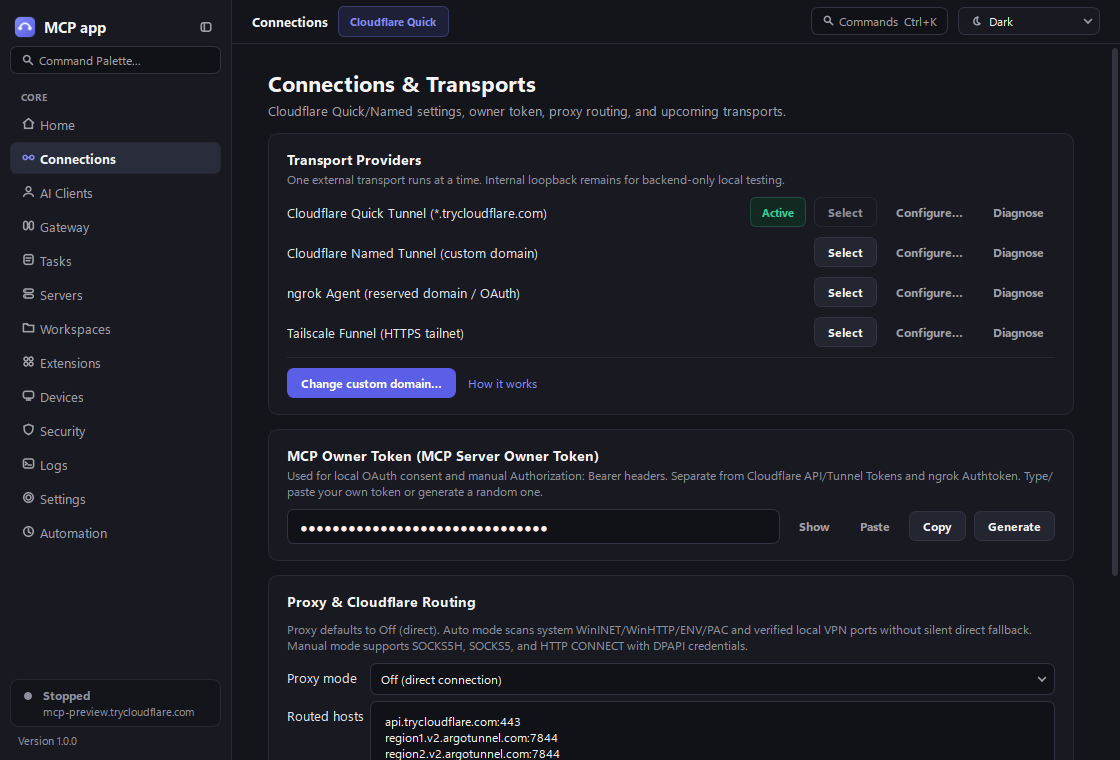
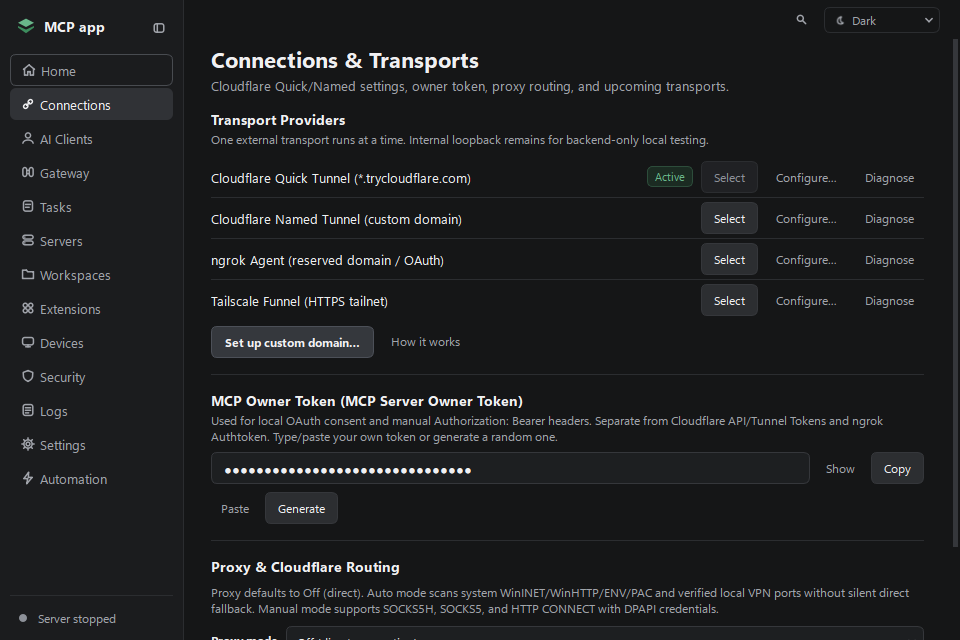
docs(release): update README, screenshots, changelog, and CI gate for v1.0.0

diff --git a/tools/capture_ui_screenshots.py b/tools/capture_ui_screenshots.py
@@ -35,7 +35,7 @@ def verify_layout_geometry(scale: str = "1.0") -> dict[str, str]:
         data_dir = Path(tmp)
         with patch("app.paths.user_data_dir", return_value=data_dir), patch(
             "app.core.service_manager.user_data_dir", return_value=data_dir
-        ), patch(
+        ), patch("app.core.domain_state.user_data_dir", return_value=data_dir), patch(
             "app.config.user_data_dir", return_value=data_dir
         ), patch("app.ui.theme.user_data_dir", return_value=data_dir, create=True), patch(
             "app.ui.main_window.default_store_path", return_value=data_dir / "oauth" / "state.sqlite3"
@@ -72,7 +72,7 @@ def capture_screenshots(out_dir: Path) -> list[Path]:
         data_dir = Path(tmp)
         with patch("app.paths.user_data_dir", return_value=data_dir), patch(
             "app.core.service_manager.user_data_dir", return_value=data_dir
-        ), patch(
+        ), patch("app.core.domain_state.user_data_dir", return_value=data_dir), patch(
             "app.config.user_data_dir", return_value=data_dir
         ), patch("app.ui.main_window.default_store_path", return_value=data_dir / "oauth" / "state.sqlite3"):
             i18n.set_language(LANG_RU)

diff --git a/tests/integration/test_minimalist_ui_redesign.py b/tests/integration/test_minimalist_ui_redesign.py
@@ -9,10 +9,12 @@ import unittest
 from pathlib import Path
 from unittest.mock import patch
 
-from mcp.shared.auth import OAuthClientInformationFull
-from PyQt6.QtCore import Qt
-from PyQt6.QtGui import QShortcut
-from PyQt6.QtWidgets import QApplication, QLineEdit
+os.environ.setdefault("QT_QPA_PLATFORM", "offscreen")
+
+from mcp.shared.auth import OAuthClientInformationFull  # noqa: E402
+from PyQt6.QtCore import Qt  # noqa: E402
+from PyQt6.QtGui import QShortcut  # noqa: E402
+from PyQt6.QtWidgets import QApplication, QLineEdit  # noqa: E402
 
 ROOT = Path(__file__).resolve().parents[2]
 if str(ROOT) not in sys.path:
@@ -34,7 +36,6 @@ from backend.oauth_store import OAuthStore  # noqa: E402
 class MinimalistUiRedesignTests(unittest.TestCase):
     @classmethod
     def setUpClass(cls) -> None:
-        os.environ.setdefault("QT_QPA_PLATFORM", "offscreen")
         cls.app = QApplication.instance() or QApplication([])
 
     def setUp(self) -> None:

diff --git a/README.md b/README.md
@@ -1,34 +1,28 @@
 # MCP app
 
-Десктопное приложение для Windows 10/11: одной кнопкой поднимает **MCP-сервер** (`backend/server.py`) и открывает к нему доступ через **Cloudflare Tunnel (Quick / Named)**, **ngrok** или **Tailscale Funnel** (внутренний loopback сохранён для headless/Admin/тестов). Работает из трея без навязчивых уведомлений и звуков, с централизованной системой постоянных журналов (`%APPDATA%\MCPApp\logs\`), сам перезапускает упавшие части и не оставляет процессов-сирот.
+Десктопное приложение для Windows 10/11: одной кнопкой поднимает **MCP-сервер** (`backend/server.py`) и открывает к нему доступ через **Cloudflare Tunnel (Quick / Named)**, **ngrok Agent** или **Tailscale Funnel** (внутренний loopback сохранён для headless, локального Admin API и тестов). Работает из трея без навязчивых уведомлений и звуков, с централизованной системой постоянных журналов (`%APPDATA%\MCPApp\logs\`), автоматически перезапускает упавшие процессы и не оставляет процессов-сирот.
 
 - **Временный адрес** `*.trycloudflare.com`: без домена и без аккаунта Cloudflare, работает сразу после установки.
-- **Свой домен**: постоянный адрес через именованный туннель (`~/.cloudflared/config.yml`).
-- **OAuth по умолчанию**: внешним клиентам нужен только MCP-адрес и вход по OAuth. Ручной токен — для подтверждения владельцем или заголовка Bearer.
+- **Свой домен (Cloudflare Named)**: постоянный адрес через API Token или готовый `Cloudflare Tunnel Token` (без изменения DNS и `config.yml`, либо вручную по инструкции).
+- **OAuth по умолчанию**: внешним клиентам нужен только MCP-адрес и вход по OAuth. Токен владельца (`MCP Owner Token`) — для подтверждения на странице согласия или заголовка `Authorization: Bearer ...`.
 
 ## Установка (для пользователя)
 
-1. Скачайте `MCPApp-Setup-<версия>.exe` (или `MCPApp-<версия>-portable.zip`).
-2. Установите. Права администратора не нужны, приложение ставится в `%LOCALAPPDATA%\Programs\MCP app`.
-3. Запустите **MCP app** → **Запустить**. На чистой машине сразу выбран режим «Временный адрес».
-4. На странице «Главная» скопируйте **только адрес** и добавьте его как MCP-сервер в OAuth-клиенте.
+1. Скачайте [`MCPApp-Setup-1.0.0.exe`](https://github.com/SolasFor/MCP-app/releases/latest) (или [`MCPApp-1.0.0-portable.zip`](https://github.com/SolasFor/MCP-app/releases/latest)).
+2. Установите приложение. Права администратора не требуются, установка выполняется в `%LOCALAPPDATA%\Programs\MCP app`.
+3. Запустите **MCP app** и на странице **«Главная»** нажмите **«Запустить»**. На чистой установке сразу выбран режим «Временный адрес».
+4. Скопируйте **только MCP-адрес** в блоке «Адрес подключения» и добавьте его в настройках MCP/OAuth вашего AI-клиента.
 
-Python и cloudflared ставить не нужно: оба внутри сборки.
+Python и `cloudflared` устанавливать отдельно не нужно — оба встроены в сборку.
 
-**SmartScreen.** Сборка не подписана сертификатом, поэтому при первом запуске Windows покажет «Windows защитила ваш компьютер». Нажмите «Подробнее» → «Выполнить в любом случае».
+**SmartScreen.** Сборка не подписана платным сертификатом издателя (Authenticode), поэтому при первом запуске Windows покажет предупреждение «Windows защитила ваш компьютер». Нажмите **«Подробнее» → «Выполнить в любом случае»**. Автоустановка обновлений (`StagedUpdater.auto_install_enabled`) отключена до появления доверенной подписи; для проверки целостности к релизу приложены `SHA256SUMS.txt` и `SBOM.cdx.json`.
 
-## Главная: сервер, Cloudflare, OAuth и 3 сценария доступа
+## Навигация, туннели и 3 сценария доступа
 
-На одной странице **«Главная»** находятся запуск сервера, адрес Cloudflare,
-настройка домена, OAuth-клиенты и диагностика. Отдельной вкладки
-«Подключение» больше нет.
-
-После OAuth-авторизации клиент получает возможности **своего сценария
-доступа**. На «Главной» задаётся режим по умолчанию, а в
-**«Управление OAuth-клиентами…» → «Права»** для каждого клиента доступен
-выпадающий список «Безопасный», «Белый список», «Полный доступ».
-Кнопка «Разрешённые команды и хосты…» из списка клиентов убрана:
-белый список редактируется только на «Главной».
+- **Главная**: статус сервера и локальный порт, статус активного туннеля, кнопка **«Запустить / Остановить»**, компактное поле копирования адреса (`CopyField`), список состояний компонентов (MCP-сервер, активный транспорт, OAuth), ссылка **«Диагностика подключения ›»** и условная кнопка **«Аварийная остановка»** (при активных сервисах).
+- **Подключения**: переключение 4 UI-провайдеров (**Cloudflare Quick**, **Cloudflare Named**, **ngrok Agent**, **Tailscale Funnel**) с сохранением настроек между переключениями, мастер домена, управление **MCP Owner Token** (ввод, вставка, генерация, скрытие) и настройка прокси (`none` по умолчанию / `auto` / `SOCKS5` / `HTTP CONNECT`).
+- **Безопасность**: выбор **сценария доступа по умолчанию** (`Безопасный`, `Белый список`, `Полный доступ`), редактор белого списка команд Windows и SSH, переключатели **Computer Use** (`ToggleSwitch` с мгновенным автосохранением без перезапуска) и защита секретов Windows DPAPI.
+- **AI-клиенты**: список зарегистрированных OAuth-клиентов, индивидуальный профиль доступа для каждого клиента в колонке **«Права»** и мгновенный отзыв токенов.
 
 | Режим | Команды Windows | SSH | Подтверждение каждого вызова |
 | --- | --- | --- | --- |
@@ -36,34 +30,19 @@ Python и cloudflared ставить не нужно: оба внутри сбо
 | **Белый список** *(по умолчанию)* | Только точные разрешённые команды | Только точные хосты и команды | **Нет** |
 | **Полный доступ** | Произвольные команды через Windows `cmd.exe` | Произвольные команды на SSH-хостах с проверенным ключом | **Нет** |
 
-В любом режиме у OAuth-клиента есть диагностический `server_info` (возвращает активные `profile`, `computer_use` и `server_mode` без раскрытия секретов).
-По умолчанию белый список Windows содержит `whoami`, `ipconfig`,
-`systeminfo`, `pwd`, `ls`, `dir` и `echo`; редактируется
-на «Главной» даже до запуска сервера. Для SSH списки хостов и команд изначально пусты.
-Встроенные `dir`/`ls`/`pwd`/`echo` в режиме белого списка обрабатываются
-**без запуска shell**. Остальные разрешённые программы запускаются напрямую.
-Это список точных команд, а не разрешение на все аргументы программы.
+В любом режиме у OAuth-клиента доступен диагностический `server_info` (возвращает активные `profile`, `computer_use` и `server_mode` без раскрытия секретов).
+По умолчанию белый список Windows содержит `ls`, `pwd`, `dir`, `echo`, `whoami`, `ipconfig` и `systeminfo`; списки редактируются на вкладках **«Безопасность»** и **«AI-клиенты»** даже до запуска сервера. Для SSH списки хостов и команд изначально пусты.
+Встроенные `dir`/`ls`/`pwd`/`echo` в режиме белого списка обрабатываются **без запуска shell**. Остальные разрешённые программы запускаются напрямую. Это список точных команд, а не разрешение на любые аргументы программы.
 
-**Полный доступ опасен:** AI-клиент может выполнять произвольные команды
-с правами запущенного Windows-пользователя и учётной записи SSH. Включается
-только вручную после предупреждения. Нет Windows sandbox — доверяйте
-только выбранным OAuth-клиентам. Режим может быть индивидуальным для каждого OAuth-клиента. Клиенты без
-индивидуального выбора наследуют режим по умолчанию с «Главной».
-Смена прав применяется сразу, включая уже подключённые токены.
+**Полный доступ опасен:** AI-клиент может выполнять произвольные команды с правами запущенного Windows-пользователя и учётной записи SSH. Включается только вручную после предупреждения. Windows sandbox здесь нет — доверяйте только выбранным OAuth-клиентам. Клиенты без индивидуального выбора наследуют сценарий по умолчанию со вкладки **«Безопасность»**. Смена прав применяется сразу, включая уже выданные токены.
 
-**Токен в ссылке `?token=...` не нужен и отключён**, включая обновлённые
-настройки прежних версий. Для MCP-клиента, поддерживающего OAuth, копируйте
-только `https://...trycloudflare.com/mcp`. Секрет владельца используется
-на странице подтверждения OAuth; для ручных клиентов без OAuth допустим
-заголовок `Authorization: Bearer ...`. Никогда не публикуйте этот токен.
+**Токен в ссылке `?token=...` не нужен и отключён**, включая обновлённые настройки прежних версий. Для MCP-клиента с поддержкой OAuth копируйте только `https://.../mcp`. Секрет владельца используется на локальной странице подтверждения OAuth; для ручных клиентов без OAuth допустим заголовок `Authorization: Bearer ...`. Никогда не публикуйте этот токен.
 
 Изменения сценария и прав **Computer Use** вступают в силу без перезапуска MCP-сервера (сервер уведомляет сессии через `notifications/tools/list_changed`, хотя некоторым AI-клиентам нужно обновить кэш инструментов).
 При смене токена владельца перезапускается только MCP-сервер (туннель сохраняется), старые OAuth-токены отзываются, а DCR-регистрация сохраняется для повторного подключения.
-На новом адресе Quick Tunnel клиенты переавторизуются заново с наследованием выбранного сценария по умолчанию (пока не назначен индивидуальный).
+На новом адресе Quick Tunnel клиенты переавторизуются заново с наследованием выбранного сценария по умолчанию.
 
-Поддержка на «Главной» также включает кнопку **«Аварийная остановка»** (немедленная блокировка новых вызовов OAuth и остановка контролируемых сервисов), сохранение **защищённого отчёта диагностики** без токенов и экспорт состояния без утечек.
-
-Подробнее: [модель угроз v1.0.0](docs/threat-model-v1.md),
+Подробнее: [дизайн-система DESIGN.md](DESIGN.md), [модель угроз v1.0.0](docs/threat-model-v1.md),
 [матрица совместимости](docs/compatibility-matrix.md),
 [руководство по обновлению с v0.8.5](docs/upgrade-guide.md),
 [справочник инструментов](docs/tool-reference.md),
@@ -81,7 +60,7 @@ Python и cloudflared ставить не нужно: оба внутри сбо
 [свой домен Cloudflare Named](docs/custom-domain.md),
 [система прокси](docs/proxy.md),
 [постоянное логирование и диагностический ZIP](docs/logging.md),
-[дизайн-система UI v0.9.0](docs/ui-design-system.md),
+[архитектура UI-темы v0.9.0](docs/ui-design-system.md),
 [сценарии Windows/SSH](docs/oauth-fixed-windows-ssh.md),
 [стабильность и безопасность v0.8.6](docs/stability-security.md),
 [OAuth через Cloudflare](docs/oauth-quick-tunnel.md),
@@ -91,8 +70,10 @@ Python и cloudflared ставить не нужно: оба внутри сбо
 
 ## Интерфейс (`v1.0.0`)
 
-- Стиль **Linear + Docker Desktop**: сворачиваемая боковая панель (`Ctrl+B`), палитра команд (`Ctrl+K`), фильтруемый журнал с экспортом и редактированием секретов, 13 активных разделов (**Главная**, **Подключения**, **AI-клиенты**, **Gateway**, **Задачи**, **Серверы**, **Workspaces**, **Расширения**, **Устройства**, **Безопасность**, **Журналы**, **Настройки**, **Автоматизация**).
-- **Dark / Light / System** темы и живое переключение языка **RU / EN** без перезапуска с сохранением геометрии окна и поддержкой HiDPI (`100–200%`).
+- **Minimalist Compact Desktop UI ([DESIGN.md](DESIGN.md))**: сдержанная графитовая эстетика **Linear / Raycast / Docker Desktop** (`#151617` в Dark и `#F7F8F9` в Light), зелёный акцент строго для состояния и запуска сервера, плоские секции с `1 px` разделителями вместо лишних карточек и адаптивные панели действий (`FlowLayout`).
+- **Компактная геометрия**: окно по умолчанию `960×640` (минимум `800×540`), сворачиваемая боковая панель `184 px` / `52 px` (`Ctrl+B`), палитра команд (`Ctrl+K`), быстрая навигация (`Ctrl+1..9`), только функциональный переход `ToggleSwitch` (`150 ms`, отключается при выключенных анимациях Windows), проверка HiDPI `100–200%` (включая `175%`).
+- **13 активных разделов**: **Главная**, **Подключения**, **AI-клиенты**, **Gateway**, **Задачи**, **Серверы**, **Workspaces**, **Расширения**, **Устройства**, **Безопасность**, **Журналы**, **Настройки**, **Автоматизация**.
+- **Dark / Light / System** темы и живое переключение языка **RU / EN** без перезапуска с сохранением геометрии окна; бесшумные диалоги `SilentDialog` / `SilentMessageBox` и wheel-безопасный `SafeComboBox`.
 - Headless-запуск сервера без GUI: `python main.py --headless` / `MCPApp.exe --headless`.
 
 ## FAQ и известные ограничения (`v1.0.0`)
@@ -111,6 +92,8 @@ Python и cloudflared ставить не нужно: оба внутри сбо
 |---|---|
 | Настройки | `%APPDATA%\MCPApp\settings.json` |
 | Токен (доступ только у вашего пользователя) | `%APPDATA%\MCPApp\token.json` |
+| Клиенты и права OAuth (зашифровано DPAPI) | `%APPDATA%\MCPApp\oauth\state.sqlite3` |
+| Постоянные журналы и архивы компонентов | `%APPDATA%\MCPApp\logs\` |
 | Рабочая папка и журнал сервера | `%APPDATA%\MCPApp\server\mcp_audit.log` |
 | Журнал выполнений OAuth Windows/SSH (JSONL, с ротацией, без открытого текста команд) | `%APPDATA%\MCPApp\server\mcp_execution_audit.jsonl` |
 | Отчёт о сбое | `%APPDATA%\MCPApp\crash.log` |
@@ -151,10 +134,11 @@ powershell -ExecutionPolicy Bypass -File packaging\build.ps1
 ## Структура
 
 ```
-main.py                 точка входа: GUI / --backend / --selftest
+main.py                 точка входа: GUI / --backend / --headless / --selftest
+DESIGN.md               спецификация дизайн-системы и дизайн-токенов
 app/gui.py              QApplication, трей, один экземпляр, перенос данных
-app/core/               ServiceManager, процессы, health-check, токен, автозапуск
-app/ui/                 дизайн-система Linear + Docker, Dark/Light/System, RU/EN, компоненты и страницы
-backend/server.py       MCP-сервер (uvicorn + MCP SDK)
+app/core/               ServiceManager, процессы, health-check, токен, прокси, логирование
+app/ui/                 Minimalist Graphite дизайн-система, Dark/Light/System, RU/EN, 13 страниц и диалоги
+backend/server.py       MCP-сервер (uvicorn + MCP SDK), OAuth, Gateway, Tasks, Extensions, Remote, Automation
 packaging/              PyInstaller spec, build.ps1, installer.iss, CI
 ```

diff --git a/PROGRESS.md b/PROGRESS.md
@@ -20,10 +20,14 @@
 Статусы: TODO / IN_PROGRESS / BLOCKED / VERIFIED / MERGED / RELEASED. Отдельные проверки: PASS / FAIL / NOT_RUN / BLOCKED / N/A. Не менять TODO на VERIFIED без доказательств приёмки.
 
 ## Последняя рабочая сессия
-- Дата, ветка, основа: 2026-11-26, ветка `fix/v1.0.0-acceptance-fixes` (продолжение PR #32 поверх `release/v1.0.0`).
-- Статус Этапа 12 (`v1.0.0 — Stable Release` + Wave 1 / Wave 2 / Wave 3 UI-исправления): все требования реализованы и проверены локально: статические проверки (`compileall`, `ruff`, `mypy` Windows + `--platform linux`), `check_licenses.py` (`38/38`), `tests/unit` (178/178), `tests/integration` (67/67), реальные браузерные E2E-тесты Playwright `tests/e2e/test_oauth_browsers_playwright.py` (Chromium, Chrome, Edge, Firefox — `OK`), оптимизация `_internal`, Windows EXE `--selftest`, проверка DPI `1.0–2.0` и визуальная проверка скриншотов в Light/Dark темах.
-- Окружение: Windows 11 Pro 25H2 (x86_64), Python 3.13.15 (`.venv`), Playwright `1.65.2` (только в dev `.venv`), Chrome / Edge / Chromium / Firefox, `cloudflared 2026.11.2`, `tailscale 1.104.2`, `gh` авторизован (`SolasFor`), `iscc` используется в GitHub Actions `windows-latest`.
-- Следующее действие: проверка CI-запусков GitHub Actions после финального пуша и согласование владельцем merge PR #32 / #20–#31 в `main`.
+- Дата, ветка, основа: 2026-11-26, ветка `feat/minimalist-compact-ui-redesign` (поверх `fix/v1.0.0-acceptance-fixes` / `release/v1.0.0`), подготовка финального релиза `v1.0.0` по одобрению владельца.
+- **Minimalist Compact UI Redesign & `v1.0.0` Release Prep**:
+  - Выполнена полная переработка интерфейса в стиле Linear/Raycast/Docker Desktop (`DESIGN.md`, `app/ui/**`), удалены все декоративные анимации (оставлен лишь `150 ms OutCubic` `ToggleSwitch` при включённых анимациях ОС), добавлены `FlowLayout`-панели и `tests/integration/test_minimalist_ui_redesign.py` (`break-ui`, 6 размеров окна, `1.0–2.0` DPI).
+  - Обновлены `README.md`, `CHANGELOG.md`, `docs/releases/v1.0.0.md`, `docs/screenshots/*.png`, изоляция `domain_state` в `tools/capture_ui_screenshots.py` и headless Qt env в `.github/workflows/build.yml`.
+- Ранее (`fix/v1.0.0-acceptance-fixes`, PR #32):
+  - Реализованы и проверены Wave 1 / Wave 2 / Wave 3 исправления (`compileall`, `ruff`, `mypy` Windows + Linux, `check_licenses.py`, `pip_audit`, `tests/unit`, `tests/integration`, Playwright E2E, EXE `--selftest`, `1.0–2.0` DPI).
+- Окружение: Windows 11 Pro 25H2 (x86_64), Python 3.13.15 (`.venv`), `gh` авторизован (`SolasFor`), `iscc` / Inno Setup 6 выполняется на `windows-latest` в GitHub Actions.
+- Следующее действие: зелёный CI на PR в `main`, merge в `main` и публикация тега/релиза `v1.0.0` через `.github/workflows/build.yml`.
 
 ## Release Acceptance Wave 3 — дополнительные исправления UI (`fix/v1.0.0-acceptance-fixes`, `VERIFIED` локально)
 1. **Вкладка «Безопасность» — Computer Use (`security_page.py`, `toggle_switch.py`, `backend/desktop/{models,manager}.py`)**:

diff --git a/docs/releases/v1.0.0.md b/docs/releases/v1.0.0.md
@@ -16,18 +16,17 @@
   - **Extensions**: Out-of-process JSON-RPC SDK, Ed25519/SHA-256 packaging, 4 official extensions.
   - **Remote Management**: Strict `RejectPolicy` `known_hosts`, SSH/SFTP with canonical roots & quotas.
   - **Automation & Monitoring**: TZ/DST scheduler, metrics, loopback-only Admin REST API, live-warned MCP Playground, non-secret backups, staged Ed25519 updater, `--headless` backend mode.
-- **Linear + Docker Desktop UI**: Dark/Light/System themes (top-right `SafeComboBox` synced with Settings, cached QSS/PNG/palette switching in <200ms), silent custom dialogs/popups (`SilentDialog`, `SilentMessageBox`, `SilentNotificationPopup`), wheel-safe `SafeComboBox`, live RU/EN i18n, Command Palette (`Ctrl+K`), HiDPI.
+- **Minimalist Compact Desktop UI (`DESIGN.md`, `app/ui/**`)**: Neutral graphite Light/Dark/System themes (`#151617` / `#F7F8F9`, emerald reserved for primary server Start/Stop and running status), flat divider-based sections, wrapping `FlowLayout` toolbars for `800×540`..`1440×900`, `960×640` compact default window, zero decorative animations (only `150 ms` `ToggleSwitch` slide), silent custom dialogs/popups (`SilentDialog`, `SilentMessageBox`, `SilentNotificationPopup`), wheel-safe `SafeComboBox`, live RU/EN i18n, Command Palette (`Ctrl+K`), verified across `1.0–2.0` HiDPI (`175%` included).
 
 ## Release Artifacts
 
-- `MCPApp-Setup-1.0.0.exe` (built in GitHub Actions `windows-package` with Inno Setup 6)
+- `MCPApp-Setup-1.0.0.exe` (built in GitHub Actions `Build` workflow with Inno Setup 6)
 - `MCPApp-1.0.0-portable.zip`
 - `SBOM.cdx.json` (38 verified dependencies)
 - `SHA256SUMS.txt`
 
-## Known Limitations & Honest Release Blockers
+## Known Limitations & Honest Notes
 
-1. **Unsigned Windows Binaries (Authenticode Blocker)**: No owner Authenticode `.pfx` certificate is configured locally or in CI. Windows SmartScreen warnings apply on first launch, and `StagedUpdater.auto_install_enabled` remains **`False`** by design.
+1. **Unsigned Windows Binaries (Authenticode)**: No owner Authenticode `.pfx` certificate is configured locally or in CI. Windows SmartScreen warnings apply on first launch, and `StagedUpdater.auto_install_enabled` remains **`False`** by design.
 2. **72-Hour Continuous Soak Test (`NOT_RUN`)**: Automated stress tests cover bounded 21+ MiB output floods, concurrent clients, mid-flight OAuth revocation, and fail-closed broken config recovery; a multi-day continuous 72-hour soak run has not been executed.
-3. **External Live Provider / Client Matrix (`BLOCKED`)**: `local_only`, `cloudflared --selftest`, `LocalSSHServer`, `stdio`/`Streamable HTTP`/`SSE` upstreams, and out-of-process extensions were tested live locally. Live external roundtrips requiring owner accounts/licenses (Cloudflare Named domain, ngrok, Tailscale Funnel ACL, ChatGPT/Claude/Gemini/Notion connectors, `SLDWORKS.exe` COM) remain blocked awaiting owner credentials.
-4. **Repository Merge & Public Release Gate**: Per `AGENTS.md`, stacked PRs #20–#31 await explicit owner approval before merging into `main` and publishing the official GitHub Release `v1.0.0`.
+3. **External Live Provider / Client Matrix (`NOT_RUN` without owner accounts)**: `local_only`, `cloudflared --selftest`, `LocalSSHServer`, `stdio`/`Streamable HTTP`/`SSE` upstreams, out-of-process extensions, and Playwright browser OAuth flows were verified locally. External third-party accounts/licenses (Cloudflare Named domain, ngrok, Tailscale Funnel ACL, ChatGPT/Claude/Gemini/Notion connectors, `SLDWORKS.exe` COM) require owner credentials at runtime.

diff --git a/CHANGELOG.md b/CHANGELOG.md
@@ -1,6 +1,10 @@
 # Changelog
 
-## [1.0.0] - 2026-11-26 (Stage 12: Stable Release Prep, Wave 1, Wave 2 & Wave 3 UI Polish)
+## [1.0.0] - 2026-11-26 (Stage 12: Stable Release, Acceptance Fixes & Minimalist UI Redesign)
+- **Minimalist Compact Desktop UI Redesign (`DESIGN.md`, `app/ui/**`)**:
+  - Redesigned the full desktop interface in a compact Linear/Raycast/Docker Desktop graphite aesthetic (`#151617` dark / `#F7F8F9` light, `960×640` default / `800×540` min, `184 px` / `52 px` sidebar), reserving green strictly for primary server Start/Stop controls and live running indicators while switching secondary actions to neutral graphite.
+  - Replaced nested and parameter-level cards with flat `Section` / `SettingRow` / `Divider` layouts, wrapping `FlowLayout` toolbars across management pages, single-bar `CopyField`, and unified `SilentDialog` styling; removed all decorative animations (`SpotlightFrame`, `ShinyLabel`, `SparkButton`, `reveal`, `StatusDot` pulse halo), preserving only the OS-animation-aware `150 ms OutCubic` `ToggleSwitch` transition.
+  - Documented tokens, typography, spacing, and non-regression UI rules in `DESIGN.md`, refreshed `docs/screenshots/`, expanded `tools/capture_ui_screenshots.py` for `1.0–2.0` DPI (`175%` included), and added `tests/integration/test_minimalist_ui_redesign.py` (`break-ui`, responsive sizes, shortcuts, accessibility, and animation guard).
 - **Additional UI Fixes (Wave 3 on `fix/v1.0.0-acceptance-fixes`)**:
   - **Security — Computer Use (`app/ui/pages/security_page.py`, `app/ui/components/toggle_switch.py`, `backend/desktop/{models,manager}.py`)**: Removed «Остановить Computer Use» (`Stop Computer Use`) button and its empty layout row while preserving the internal emergency stop (`DesktopPolicyStore.set_emergency_stop`, `ServiceManager.emergency_stop`, conditional `Clear Emergency Stop`). Disabling the master Computer Use `ToggleSwitch` now greys out and locks all dependent toggles (with `allow_secret_typing` additionally requiring `allow_input_control`) while preserving their stored values, immediately disables all Computer Use MCP tools via `ToolRegistry` / `DesktopManager`, and auto-saves silently across restarts. Moved «Сценарий доступа по умолчанию» (`SafeComboBox`) into `SecurityPage` («Политика выполнения команд»).
   - **Logs (`app/ui/pages/logs_page.py`, `app/ui/components/log_viewer.py`)**: Removed the «Экспорт диагностики…» (`Export Diagnostics…`) button from the Logs toolbar and removed the explanatory subtitle `logs.lead` (RU/EN) along with blank spacing, replacing the button with plain redacted text log export (`Экспорт…` / `Export…`) while preserving all log disk persistence, filtering, search, tail paging, copy, clear, open-folder, auto-scroll, and the internal `app/core/diagnostics_bundle.py` module.
